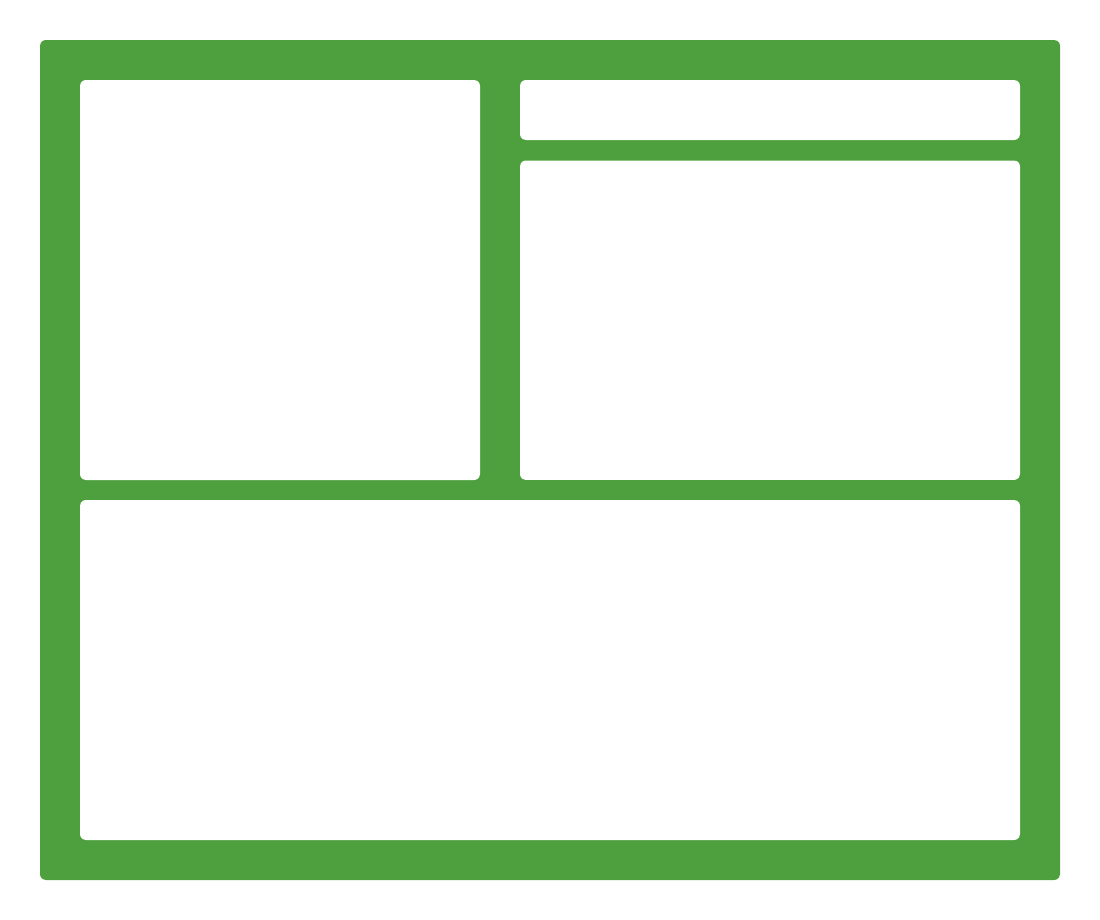
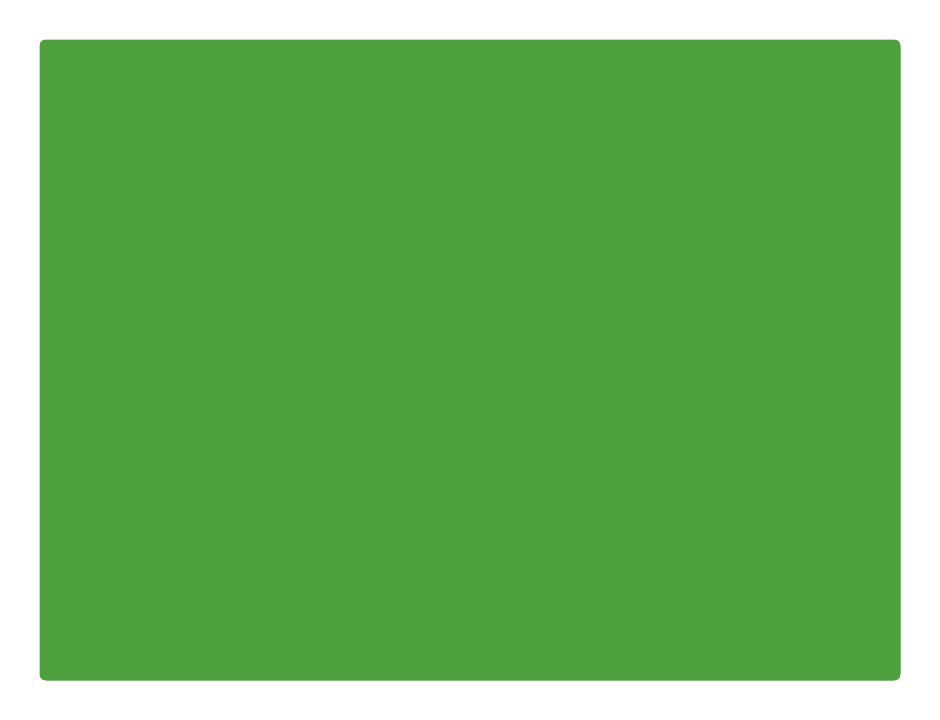
card png removed on entity and plane created with font

diff --git a/src/js/components/ar.jsx b/src/js/components/ar.jsx
@@ -1,4 +1,4 @@
-import React, { useEffect, useRef } from 'react';
+import React, { useEffect, useRef, useState } from 'react';
 import 'aframe';
 import 'mind-ar/dist/mindar-image-aframe.prod.js';
 import { FaQuestionCircle } from "react-icons/fa";
@@ -8,6 +8,34 @@ import { IconContext } from 'react-icons';
 export default ({ page }) => {
     const sceneRef = useRef(null);
     const clickable = useRef(null);
+    const [artifact, setArtifact] = useState([true, false, false]);
+    const [ctr, setCtr] = useState(0);
+
+    //Next Loop Mechanic
+    const next = () => {
+        setCtr((ctr) => ctr != 2 ? ctr + 1 : ctr = 0);
+        const nextArtifact = artifact.map((show, i) => {
+            if (i == ctr) {
+                return show = true;
+            }
+            return show = false
+        })
+        setArtifact(nextArtifact);
+    }
+
+    //Previous Loop Mechanic
+    const prev = () => {
+        console.log(`Before:${ctr}`);
+        setCtr((ctr) => ctr != 0 ? ctr - 1 : ctr = 2);
+        console.log(`After:${ctr}`);
+        const prevArtifact = artifact.map((show, i) => {
+            if (i == ctr) {
+                return show = true;
+            }
+            return show = false;
+        })
+        setArtifact(prevArtifact);
+    }
 
     useEffect(() => {
         const sceneEl = sceneRef.current;
@@ -29,20 +57,52 @@ export default ({ page }) => {
                     <FaPlayCircle onClick={() => { page('home') }}></FaPlayCircle>
                 </div>
             </IconContext.Provider>
-            <a-scene ref={sceneRef} mindar-image="filterMinCF:1; filterBeta:500; imageTargetSrc: /targets.mind; autoStart: false; uiLoading: no; uiError: no; uiScanning: no;" color-space="sRGB" embedded renderer="colorManagement: true, physicallyCorrectLights" vr-mode-ui="enabled: false" device-orientation-permission-ui="enabled: false">
+            <a-scene ref={sceneRef} mindar-image="filterMinCF:5; filterBeta:2000; imageTargetSrc: /targets.mind; autoStart: false; uiLoading: no; uiError: no; uiScanning: no;" color-space="sRGB" embedded renderer="colorManagement: true, physicallyCorrectLights" vr-mode-ui="enabled: false" device-orientation-permission-ui="enabled: false">
                 <a-assets>
-                    <img id="card" src="/ar-ui/card.png" />
                     <img id="next" src="/ar-ui/next.png" />
                     <img id="prev" src="/ar-ui/prev.png" />
+                    <img id="petey" src="/ar-ui/petey.jpg" />
+                    <img id="katniss" src="/ar-ui/katniss.jpg" />
+                    <img id="logo" src="/ar-ui/logo.jpg" />
                 </a-assets>
 
                 <a-camera position="0 0 0" look-controls="enabled: false" cursor="fuse: false; rayOrigin: mouse;" raycaster="far: ${customFields.libVersion}; objects: .clickable"></a-camera>
 
                 <a-entity mindar-image-target="targetIndex: 0">
-                    <a-image ref={clickable} class="clickable" src="#card" position="0 0 0" height="0.552" width="1" rotation="0 0 0" onClick={() => { page('home'); }}></a-image>
+
                     <a-entity position="0 0 0">
-                        <a-image src="#next" position="0.6 0" height="0.125" width="0.125" rotation="0 0 0"></a-image>
-                        <a-image src="#prev" position="-0.6 0 0" height="0.125" width="0.125" rotation="0 0 0"></a-image>
+                        <a-plane color="#4E9F3D" height="0.552" width="1"></a-plane>
+                        <a-entity visible={artifact[0]}>
+                            <a-image src="#katniss"
+                                height="0.4"
+                                width="0.4"
+                                position="-0.24 0 0.1">
+                            </a-image>
+                            <a-entity geometry="primitive:plane; height: 0; width: 0;"
+                                text="value:Hunger Games; align:center; width: 0.4; color: black;"
+                                position="0.24 0 0.1"
+                                material="color: white"
+                            >
+                            </a-entity>
+                        </a-entity>
+                        <a-entity visible={artifact[1]}>
+                            <a-image visible={artifact[1]}
+                                src="#petey"
+                                height="0.4"
+                                width="0.4"
+                                position="-0.24 0 0.1">
+                            </a-image>
+                        </a-entity>
+                        <a-entity visible={artifact[2]}>
+                            <a-image visible={artifact[2]}
+                                src="#logo"
+                                height="0.4"
+                                width="0.4"
+                                position="-0.24 0 0.1">
+                            </a-image>
+                        </a-entity>
+                        <a-image ref={clickable} class="clickable" onClick={() => next()} src="#next" position="0.6 0 0" height="0.125" width="0.125" rotation="0 0 0"></a-image>
+                        <a-image ref={clickable} class="clickable" onClick={() => prev()} src="#prev" position="-0.6 0 0" height="0.125" width="0.125" rotation="0 0 0"></a-image>
                     </a-entity>
                 </a-entity>
             </a-scene>
